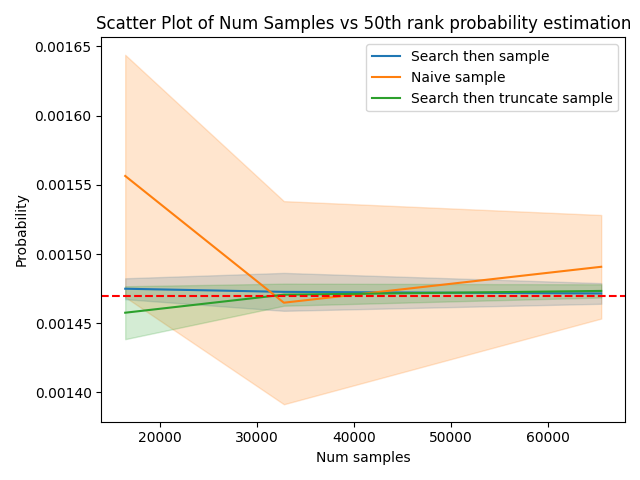
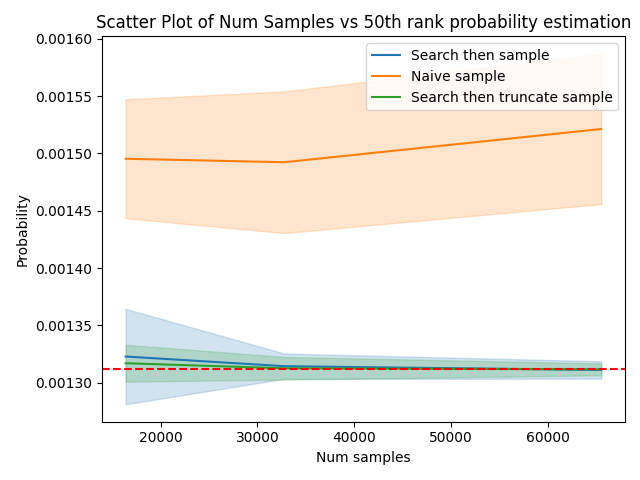
switch to logit_bias = np array for speed

diff --git a/logit_estimation/estimators.py b/logit_estimation/estimators.py
@@ -6,6 +6,8 @@ import torch
 import numpy as np
 from scipy.special import logsumexp
 
+from rich.progress import track
+
 from transformers import AutoTokenizer, AutoModelForCausalLM
 from torch.distributions import Categorical, kl_divergence
 
@@ -32,8 +34,8 @@ def construct_logit_bias_tensor(logit_bias_dict, vocab_size):
 
 class HfSampler(Sampler):
     def __init__(self, model):
-        #self.model = AutoModelForCausalLM.from_pretrained(model, torch_dtype=torch.bfloat16)
-        self.model = AutoModelForCausalLM.from_pretrained(model)
+        self.model = AutoModelForCausalLM.from_pretrained(model, torch_dtype=torch.bfloat16)
+        #self.model = AutoModelForCausalLM.from_pretrained(model)
         self.tokenizer = AutoTokenizer.from_pretrained(model)
         self.vocab_size = len(self.tokenizer)
         self.cached_logits = None
@@ -50,7 +52,8 @@ class HfSampler(Sampler):
             else self.cached_logits
         )
         if logit_bias is not None:
-            logits = logits + construct_logit_bias_tensor(logit_bias, len(logits))
+            #logits = logits + construct_logit_bias_tensor(logit_bias, len(logits))
+            logits = logits + torch.tensor(logit_bias)
 
         true_dist = Categorical(logits=logits)
 
@@ -201,7 +204,7 @@ class Estimator:
 
 def query_ordering(sampler, prefix, bias=-1000):
     vocab_size = sampler.vocab_size
-    logit_bias = dict()
+    logit_bias = np.zeros((vocab_size,))
     ordering = []
     for i in range(vocab_size):
         idx = sampler.sample(prefix, 1, logit_bias, temperature=0).argmax
@@ -210,7 +213,7 @@ def query_ordering(sampler, prefix, bias=-1000):
     return ordering
 
 def binary_search(sampler, prefix, logit_bias, low=-0.25, high=0, eps=1e-10):
-    logit_bias = logit_bias.copy()
+    logit_bias = logit_bias + 0 # force copy
     idx = sampler.sample(prefix, 1, logit_bias, temperature=0).argmax
     logit_bias[idx] = low
     idx_lower = None
@@ -243,13 +246,17 @@ def binary_search(sampler, prefix, logit_bias, low=-0.25, high=0, eps=1e-10):
 
 
 def estimate(sampler, prefix, K, T, threshold):
+    vocab_size = sampler.vocab_size
     estimator = Estimator(sampler.vocab_size, threshold)
     for t in range(T):
         weight, words = estimator.weight()
         if weight is None:
             break
         #logit_bias = {word: -100 for word in words}
-        logit_bias = {word: -1000 for word in words}
+        logit_bias = np.zeros((vocab_size,), dtype=np.float64)
+        import pdb; pdb.set_trace()
+        logit_bias[words] = -1000
+
         sample_output = sampler.sample(prefix, K, logit_bias)
         allowed_words = [x for x in range(sampler.vocab_size) if x not in logit_bias]
         estimator.add_sample(sample_output, weight, allowed_words=allowed_words)
@@ -257,12 +264,16 @@ def estimate(sampler, prefix, K, T, threshold):
 
 def naive_estimate(sampler, prefix, K):
     estimator = Estimator(sampler.vocab_size)
-    sample_output = sampler.sample(prefix, K, dict())
+    sample_output = sampler.sample(prefix, K)
     estimator.add_sample(sample_output)
     return estimator, K
 
-def search(sampler, prefix, topk, logit_bias, bias=-100):
-    logit_bias = logit_bias.copy()
+def search(sampler, prefix, topk, logit_bias=None, bias=-100):
+    logit_bias = (
+        logit_bias + 0 # force copy
+        if logit_bias is not None
+        else np.zeros(vocab_size, dtype=np.float64)
+    )
     highest_idx = sampler.sample(prefix, 1, logit_bias, temperature=0).argmax
 
     diffs = [0]
@@ -279,15 +290,20 @@ def search(sampler, prefix, topk, logit_bias, bias=-100):
     estimated_logits = np.array(diffs, dtype=np.float64).cumsum()
     return idxs, estimated_logits, logit_bias, total_calls
 
-def diffsearch(sampler, prefix, topk, logit_bias, bias=-1000):
-    logit_bias = logit_bias.copy()
+def diffsearch(sampler, prefix, topk, logit_bias=None, bias=-1000):
+    vocab_size = sampler.vocab_size
+    logit_bias = (
+        logit_bias + 0 # force copy
+        if logit_bias is not None
+        else np.zeros(vocab_size, dtype=np.float64)
+    )
     highest_idx = sampler.sample(prefix, 1, logit_bias, temperature=0).argmax
 
     diffs = [0]
     idxs = [highest_idx]
     total_calls = 1
     logit_diff = 0
-    for _ in range(topk):
+    for _ in track(range(topk)):
         logit_diff, idx, num_calls, idx_lower = binary_search(sampler, prefix, logit_bias, high=logit_diff)
         logit_bias[idx_lower] = bias
         diffs.append(logit_diff)
@@ -299,9 +315,10 @@ def diffsearch(sampler, prefix, topk, logit_bias, bias=-1000):
     return idxs, estimated_logits, logit_bias, total_calls
 
 def search_then_estimate(sampler, prefix, K, T, threshold):
+    vocab_size = sampler.vocab_size
     #idxs, estimated_logits, logit_bias, total_calls = search(sampler, prefix, 16, dict())
     #idxs, estimated_logits, logit_bias, total_calls = search(sampler, prefix, 64, dict())
-    idxs, estimated_logits, logit_bias, total_calls = diffsearch(sampler, prefix, 128, dict())
+    idxs, estimated_logits, logit_bias, total_calls = diffsearch(sampler, prefix, 128)
 
     bias = -1000
     estimator = Estimator(sampler.vocab_size, threshold,
@@ -314,13 +331,15 @@ def search_then_estimate(sampler, prefix, K, T, threshold):
         weight, words = estimator.weight()
         if weight is None:
             break
-        logit_bias = {word: bias for word in words}
+        logit_bias = np.zeros((vocab_size,), dtype=np.float64)
+        logit_bias[words] = -1000
         sample_output = sampler.sample(prefix, K, logit_bias)
-        allowed_words = [x for x in range(sampler.vocab_size) if x not in logit_bias]
+        allowed_words = logit_bias == 0
         estimator.add_sample(sample_output, weight, allowed_words=allowed_words)
 
     weight, words = estimator.weight()
-    logit_bias = {word: bias for word in words}
+    logit_bias = np.zeros((vocab_size,), dtype=np.float64)
+    logit_bias[words] = -1000
     if weight is not None:
         sample_output = sampler.sample(prefix, remaining_calls % K, logit_bias)
         allowed_words = [x for x in range(sampler.vocab_size) if x not in logit_bias]
@@ -329,7 +348,7 @@ def search_then_estimate(sampler, prefix, K, T, threshold):
     return estimator, K*T
 
 def search_then_sample(sampler, prefix, K, T, threshold):
-    idxs, estimated_logits, logit_bias, total_calls = diffsearch(sampler, prefix, 128, dict())
+    idxs, estimated_logits, logit_bias, total_calls = diffsearch(sampler, prefix, 128)
 
     bias = -1000
     estimator = Estimator(sampler.vocab_size, threshold,

diff --git a/run_estimation.py b/run_estimation.py
@@ -16,7 +16,7 @@ sampler = HfSampler(model)
 sampler.sample(prefix, 1)
 np.save(f"saved_logits/{index}-true.npy", sampler.cached_logits.numpy())
 
-idxs, estimated_logits, logit_bias, total_calls = diffsearch(sampler, prefix, N, dict())
+idxs, estimated_logits, logit_bias, total_calls = diffsearch(sampler, prefix, N)
 lp = np.full((sampler.vocab_size,), float("-inf"), dtype=np.float64)
 Zhat = logsumexp(estimated_logits)
 lp[idxs] = estimated_logits - Zhat
